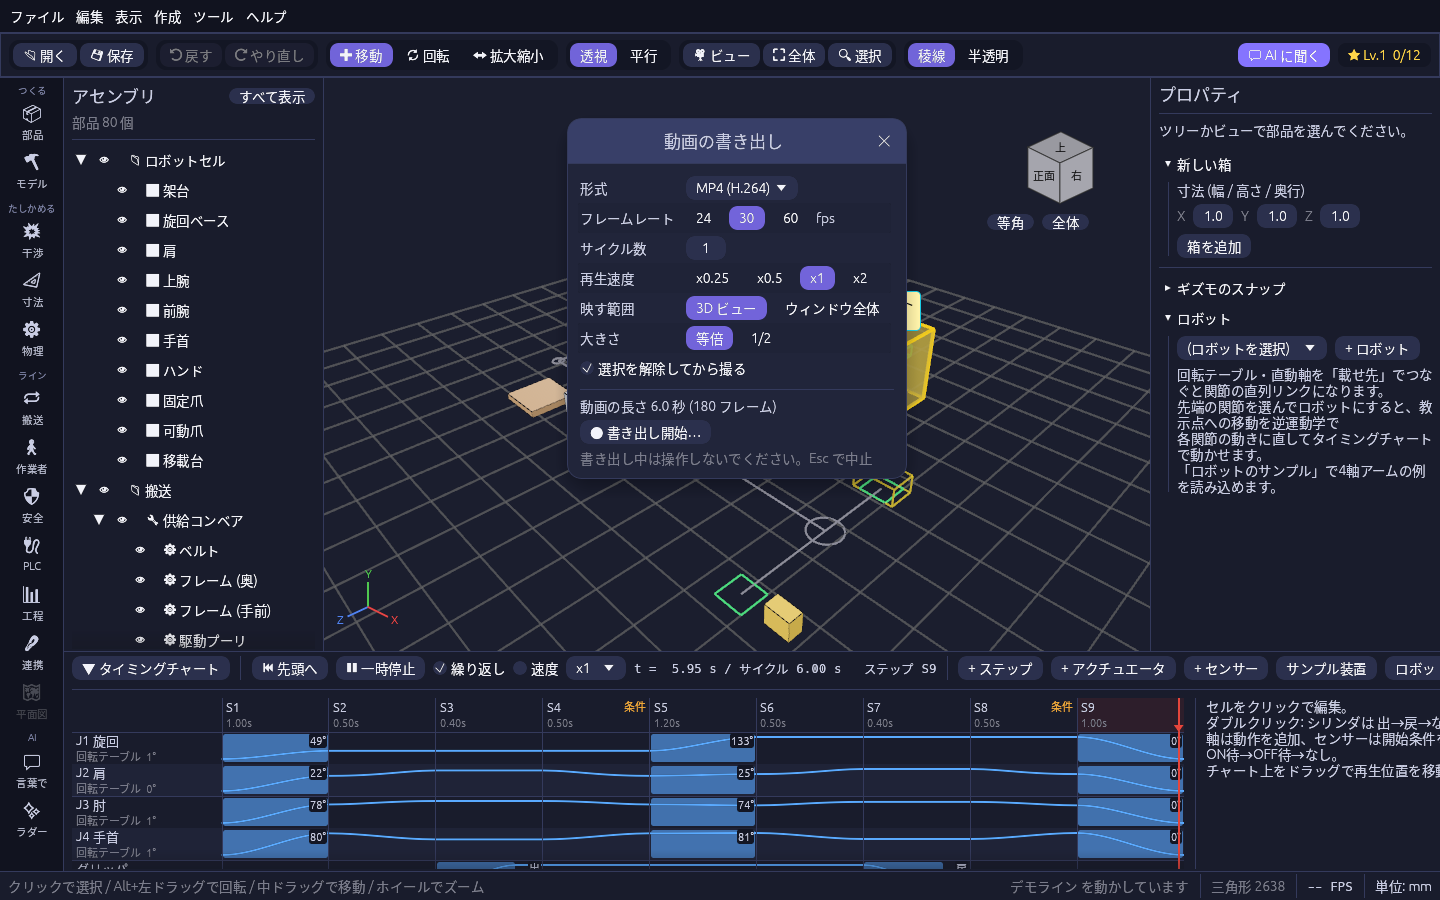
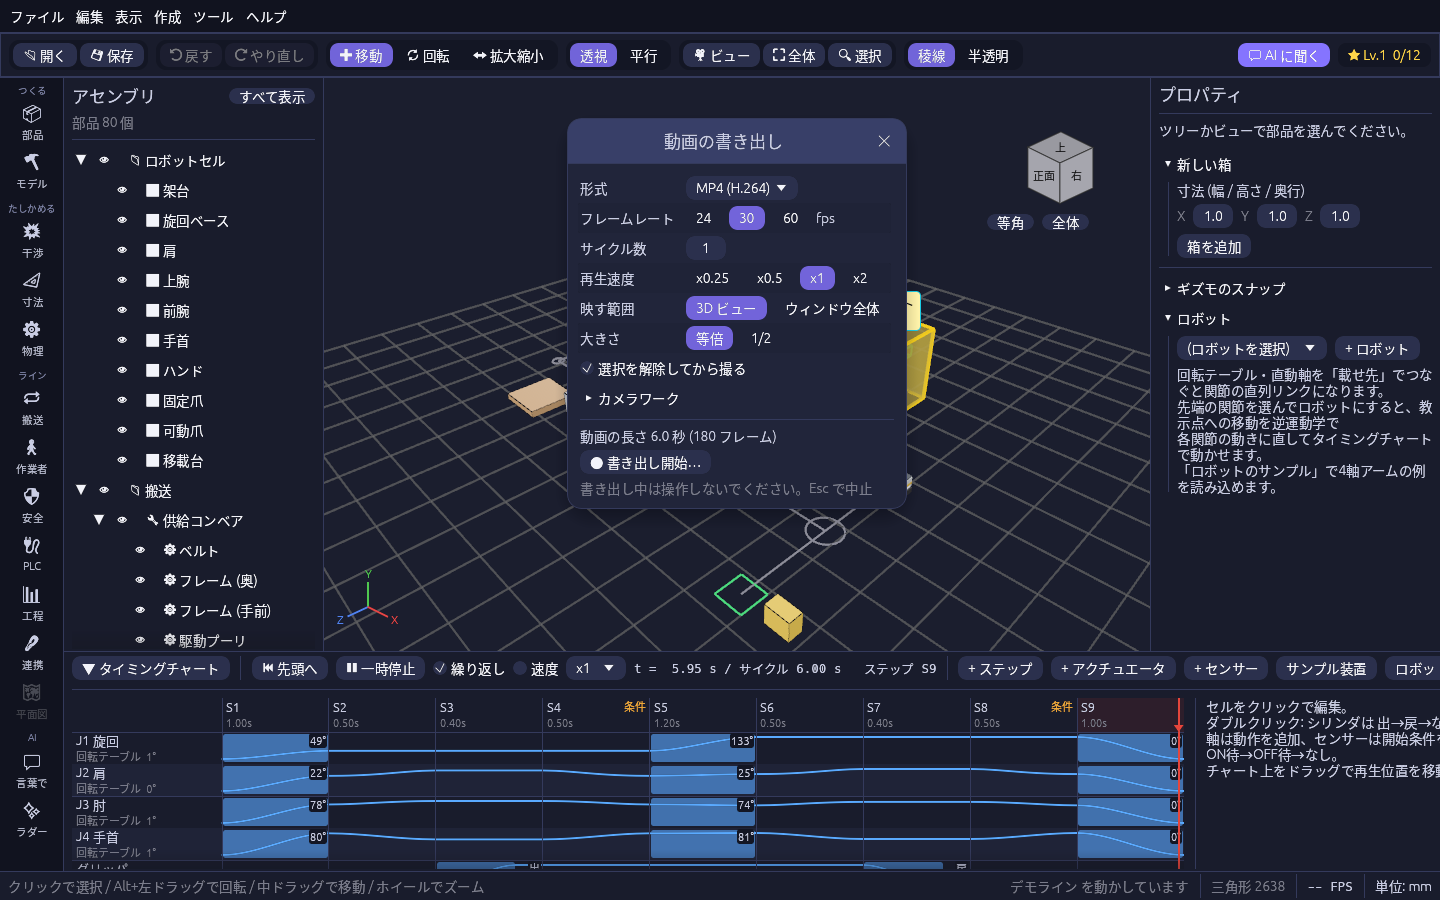
カメラワークの欄を折りたためるようにし、画面の自動確認と README の写真を足す
Claude-Session: https://claude.ai/code/session_01EqFxG5SYvLG92mXBN5ZgyU

Changed region(s): [[0.4062, 0.4356, 0.6562, 0.56]]

diff --git a/src/view/recording.rs b/src/view/recording.rs
@@ -523,19 +523,21 @@ fn settings_ui(
     ui.checkbox(&mut settings.clear_selection, "選択を解除してから撮る");
 
     let busy = !matches!(recorder.state, State::Idle);
-    ui.separator();
-    ui.strong("カメラワーク");
     let speed = settings.speed;
-    camera_path_ui(
-        ui,
-        &mut camera.path,
-        &mut camera.ui,
-        &mut camera.orbit,
-        &mut camera.playback,
-        &mut settings.use_camera_path,
-        speed,
-        busy,
-    );
+    egui::CollapsingHeader::new("カメラワーク")
+        .default_open(!camera.path.is_empty())
+        .show(ui, |ui| {
+            camera_path_ui(
+                ui,
+                &mut camera.path,
+                &mut camera.ui,
+                &mut camera.orbit,
+                &mut camera.playback,
+                &mut settings.use_camera_path,
+                speed,
+                busy,
+            );
+        });
 
     let cycle = schedule.cycle_time;
     let plan = settings.plan(cycle, &camera.path);

diff --git a/src/view/camera_path.rs b/src/view/camera_path.rs
@@ -95,6 +95,7 @@ struct Preview {
 }
 
 /// プレビュー中は通り道どおりにカメラを動かす。終わるか Esc で元の視点に戻す
+#[allow(clippy::too_many_arguments)]
 fn run_preview(
     time: Res<Time>,
     keys: Res<ButtonInput<KeyCode>>,
@@ -296,7 +297,7 @@ pub fn camera_path_ui(
                             }
                         });
                         if ui
-                            .small_button("✕")
+                            .small_button("削除")
                             .on_hover_text("この視点を消します")
                             .clicked()
                         {
